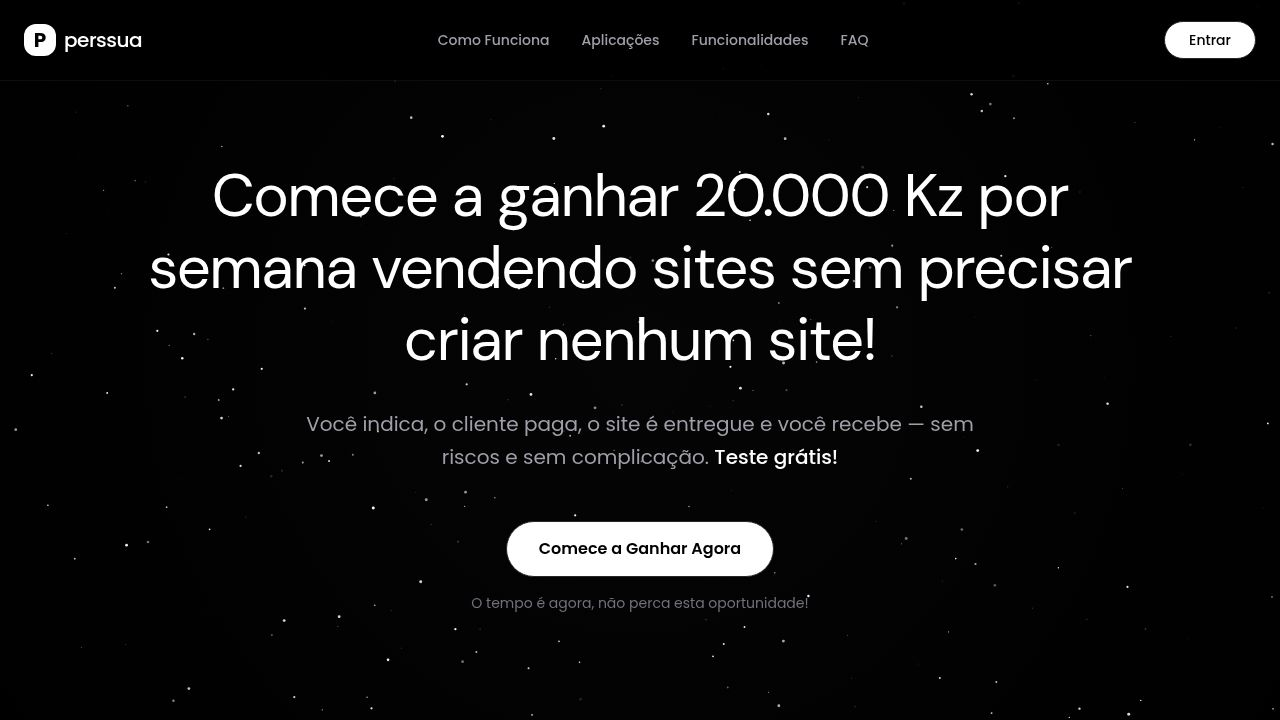
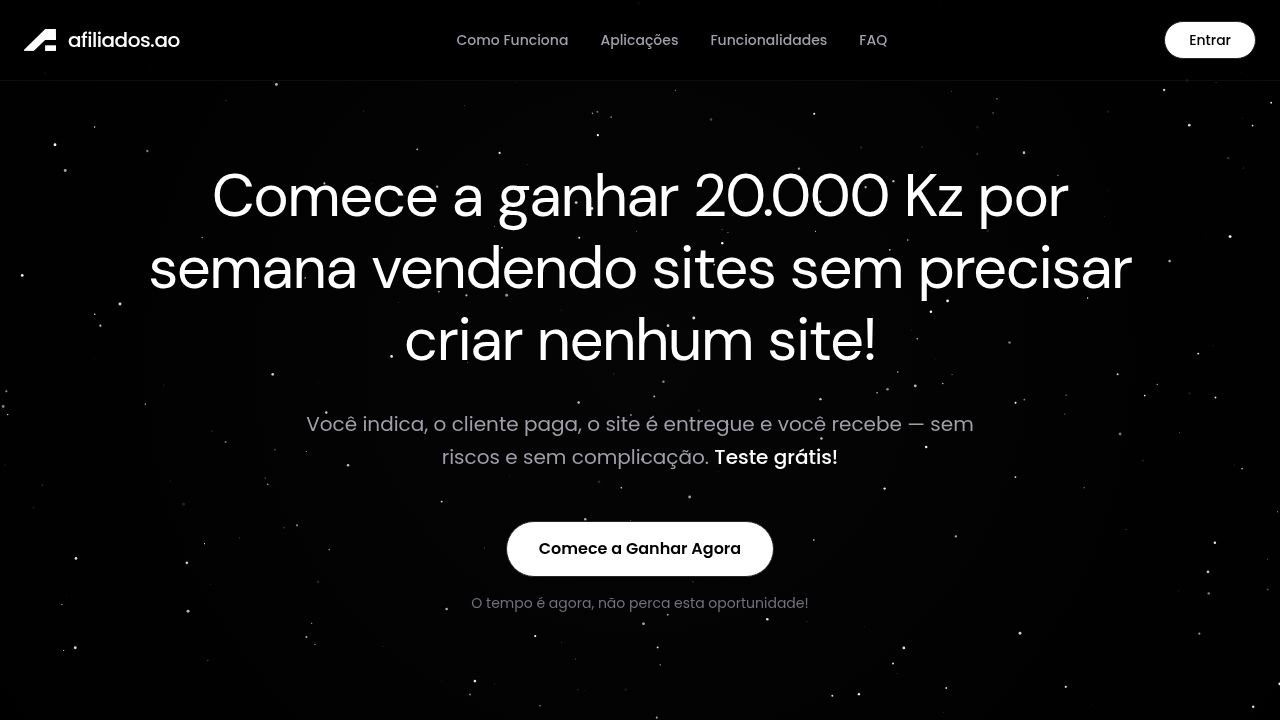
Update company branding and website content to reflect new identity
Update meta tags, footer, and navbar to reflect the new brand name "Afiliados.ao", including logo integration and content changes.

Replit-Commit-Author: Agent
Replit-Commit-Session-Id: f4219269-1739-43e3-b6e5-37510d473adb
Replit-Commit-Checkpoint-Type: full_checkpoint
Replit-Commit-Event-Id: f36b8c6b-d2e5-4668-9d34-dea030c4b469
Replit-Commit-Screenshot-Url: https://storage.googleapis.com/screenshot-production-us-central1/023af9ae-ad3f-4ad4-8f93-c8504fb6f03c/f4219269-1739-43e3-b6e5-37510d473adb/kTiVSDQ
Replit-Helium-Checkpoint-Created: true

Changed region(s): [[0.3438, 0.0306, 0.6875, 0.0611], [0.0, 0.0306, 0.1562, 0.0917]]

diff --git a/client/src/components/footer.tsx b/client/src/components/footer.tsx
@@ -7,10 +7,10 @@ export function Footer() {
       <div className="bg-card border border-white/10 rounded-[2.5rem] p-12 md:p-24 text-center mb-24 relative overflow-hidden">
         <div className="relative z-10 max-w-3xl mx-auto space-y-8">
           <h2 className="text-4xl md:text-6xl font-normal tracking-tight leading-[1.1] font-['DM_Sans']">
-            Pronto para dominar suas apresentações?
+            Pronto para começar a faturar?
           </h2>
           <p className="text-lg text-zinc-400 max-w-xl mx-auto">
-            Transforme cada reunião em um espetáculo de clareza e persuasão com Perssua. <span className="text-white font-medium">Teste grátis agora mesmo:</span>
+            Junte-se ao Afiliados.ao e transforme suas indicações em lucro real. <span className="text-white font-medium">Cadastre-se grátis agora mesmo:</span>
           </p>
           
           <div className="flex flex-col items-center gap-4 pt-4">
@@ -27,15 +27,17 @@ export function Footer() {
       <div className="flex flex-col md:flex-row justify-between items-start gap-12 text-sm text-zinc-500">
         <div className="max-w-xs space-y-4">
           <div className="flex items-center gap-2 text-white">
-            <div className="w-6 h-6 rounded bg-white flex items-center justify-center text-black font-bold text-sm">
-              P
-            </div>
-            <span className="font-medium tracking-tight">perssua</span>
+            <img 
+              src="/assets/logo.png" 
+              alt="Afiliados.ao Logo" 
+              className="w-6 h-6 object-contain brightness-0 invert" 
+            />
+            <span className="font-medium tracking-tight">afiliados.ao</span>
           </div>
           <p className="leading-relaxed">
-            Sua ferramenta de apoio em tempo real que sugere respostas e argumentos durante reuniões on-line, ajudando você a lidar com objeções e se comunicar com mais confiança.
+            Sua plataforma para vender sites sem complicações. Você indica, nós entregamos e você recebe sua comissão com total transparência e segurança.
           </p>
-          <p className="pt-4">© 2025 Perssua. Todos direitos reservados</p>
+          <p className="pt-4">© 2025 Afiliados.ao. Todos direitos reservados</p>
         </div>
 
         <div className="grid grid-cols-2 gap-x-16 gap-y-4">

diff --git a/client/index.html b/client/index.html
@@ -4,12 +4,12 @@
     <meta charset="UTF-8" />
     <meta name="viewport" content="width=device-width, initial-scale=1.0, maximum-scale=1" />
 
-    <meta property="og:title" content="Perssua - Seu superpoder de persuasão em tempo real" />
-    <meta property="og:description" content="Respostas instantâneas, gestão de objeções e integração perfeita em Zoom, Meet, Teams e Hangouts." />
+    <meta property="og:title" content="Afiliados.ao - Ganhe dinheiro indicando sites" />
+    <meta property="og:description" content="Comece a ganhar 20.000 Kz por semana vendendo sites sem precisar criar nenhum site! Você indica e nós fazemos o resto." />
     <meta property="og:type" content="website" />
     <meta name="twitter:card" content="summary_large_image" />
-    <meta name="twitter:title" content="Perssua" />
-    <meta name="twitter:description" content="Respostas instantâneas, gestão de objeções e integração perfeita em Zoom, Meet, Teams e Hangouts." />
+    <meta name="twitter:title" content="Afiliados.ao" />
+    <meta name="twitter:description" content="Comece a ganhar 20.000 Kz por semana vendendo sites sem precisar criar nenhum site!" />
 
     <link rel="icon" type="image/png" href="/favicon.png" />
     <link rel="preconnect" href="https://fonts.googleapis.com">

diff --git a/client/src/components/navbar.tsx b/client/src/components/navbar.tsx
@@ -5,11 +5,13 @@ export function Navbar() {
   return (
     <nav className="fixed top-0 w-full z-50 bg-black/80 backdrop-blur-md border-b border-white/5">
       <div className="container mx-auto px-6 h-20 flex items-center justify-between">
-        <Link href="/" className="flex items-center gap-2 group cursor-pointer">
-          <div className="w-8 h-8 rounded-lg bg-white flex items-center justify-center text-black font-bold text-xl">
-            P
-          </div>
-          <span className="text-xl font-medium tracking-tight">perssua</span>
+        <Link href="/" className="flex items-center gap-3 group cursor-pointer">
+          <img 
+            src="/assets/logo.png" 
+            alt="Afiliados.ao Logo" 
+            className="w-8 h-8 object-contain brightness-0 invert" 
+          />
+          <span className="text-xl font-medium tracking-tight">afiliados.ao</span>
         </Link>
 
         <div className="hidden md:flex items-center gap-8 text-sm font-medium text-zinc-400 font-['Poppins']">
